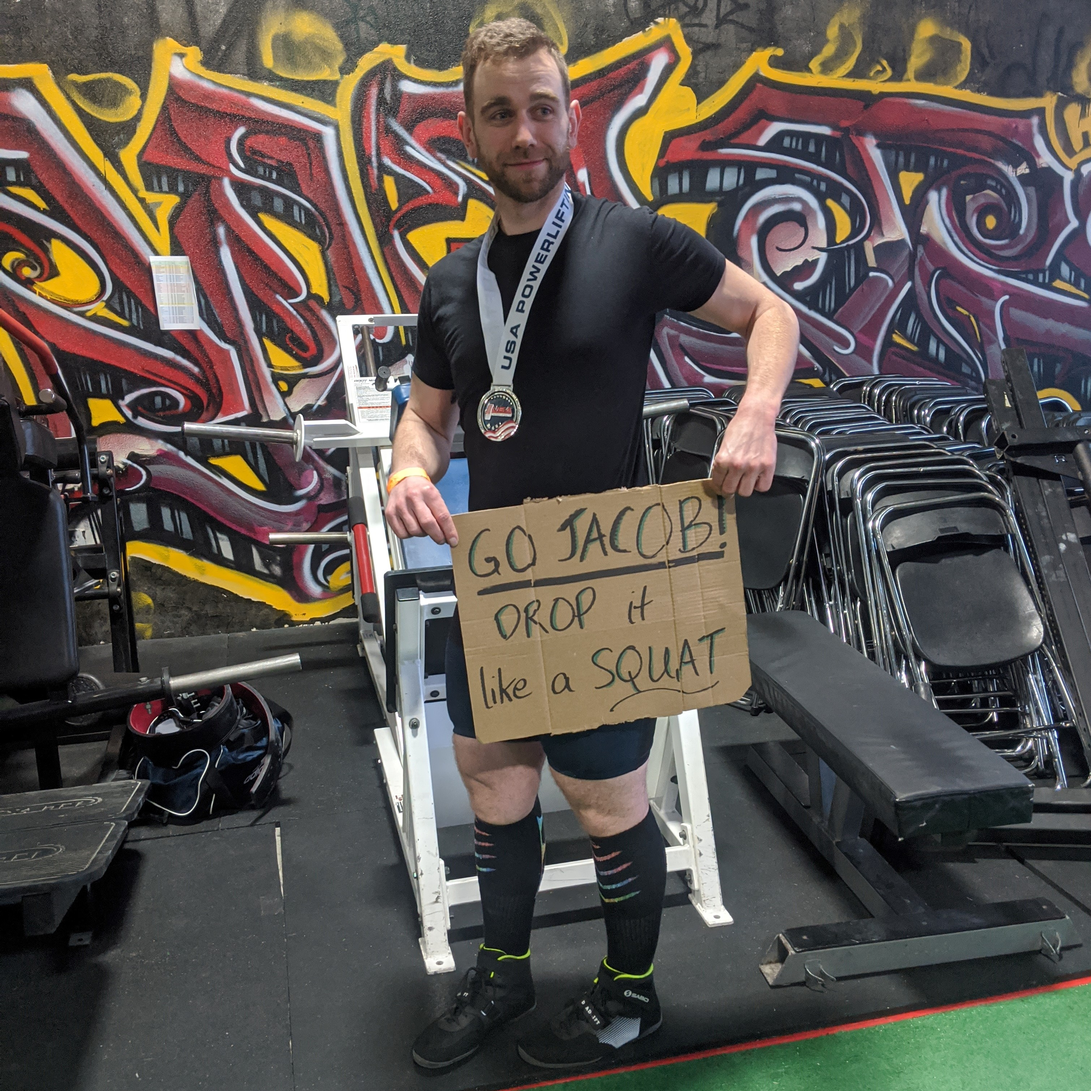
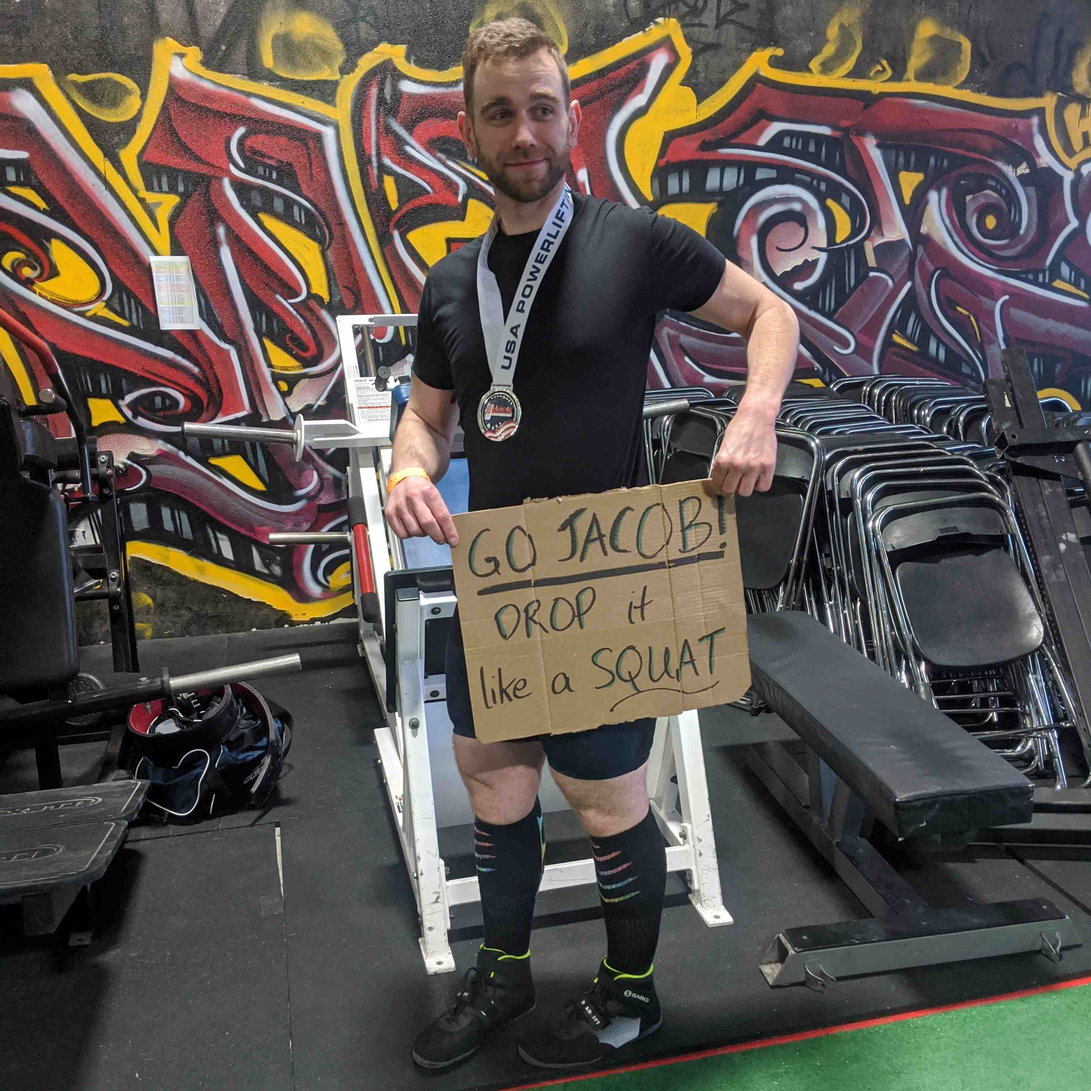
added compressed photos and some css tweaks

diff --git a/public/index.html b/public/index.html
@@ -4,10 +4,11 @@
         <meta charset="UTF-8">
         <meta http-equiv="X-UA-Compatible" content="IE=edge">
         <meta name="viewport" content="width=device-width, initial-scale=1.0">
+        <meta name="description" content="Home of the CasualDevelopment YouTube channel and blog focused on building random websites for fun.">
         <link rel="stylesheet" href="/css/style.css">
         <link rel="shortcut icon" href="/assests/logo.png" type="image/png">
         <script defer src="https://identity.netlify.com/v1/netlify-identity-widget.js"></script>
-        <title></title>
+        <title>CasualDev_</title>
     </head>
     <body>
         <header class="header">
@@ -44,13 +45,15 @@
         <legend>Jacob McCracken</legend>
         <ul class="profile_link-list">
             <li>
-                <a href="https://twitter.com/balorformorian" target="_blank" rel="norefferer">
+                <a class="social-link" href="https://twitter.com/balorformorian" target="_blank" rel="norefferer">
                     <svg xmlns="http://www.w3.org/2000/svg" viewBox="0 0 512 512" class="twitter"><!--! Font Awesome Pro 6.1.2 by @fontawesome - https://fontawesome.com License - https://fontawesome.com/license (Commercial License) Copyright 2022 Fonticons, Inc. --><path d="M459.37 151.716c.325 4.548.325 9.097.325 13.645 0 138.72-105.583 298.558-298.558 298.558-59.452 0-114.68-17.219-161.137-47.106 8.447.974 16.568 1.299 25.34 1.299 49.055 0 94.213-16.568 130.274-44.832-46.132-.975-84.792-31.188-98.112-72.772 6.498.974 12.995 1.624 19.818 1.624 9.421 0 18.843-1.3 27.614-3.573-48.081-9.747-84.143-51.98-84.143-102.985v-1.299c13.969 7.797 30.214 12.67 47.431 13.319-28.264-18.843-46.781-51.005-46.781-87.391 0-19.492 5.197-37.36 14.294-52.954 51.655 63.675 129.3 105.258 216.365 109.807-1.624-7.797-2.599-15.918-2.599-24.04 0-57.828 46.782-104.934 104.934-104.934 30.213 0 57.502 12.67 76.67 33.137 23.715-4.548 46.456-13.32 66.599-25.34-7.798 24.366-24.366 44.833-46.132 57.827 21.117-2.273 41.584-8.122 60.426-16.243-14.292 20.791-32.161 39.308-52.628 54.253z"/></svg>
+                    <span>Twitter</span>
                 </a>
             </li>
             <li>
-                <a href="https://www.youtube.com/channel/UCdlgnwlj8WgDoeFa_p3AW4g" target="_blank" rel="norefferer">
+                <a class="social-link" href="https://www.youtube.com/channel/UCdlgnwlj8WgDoeFa_p3AW4g" target="_blank" rel="norefferer">
                     <svg xmlns="http://www.w3.org/2000/svg" viewBox="0 0 576 512" class="youtube"><!--! Font Awesome Pro 6.1.2 by @fontawesome - https://fontawesome.com License - https://fontawesome.com/license (Commercial License) Copyright 2022 Fonticons, Inc. --><path d="M549.655 124.083c-6.281-23.65-24.787-42.276-48.284-48.597C458.781 64 288 64 288 64S117.22 64 74.629 75.486c-23.497 6.322-42.003 24.947-48.284 48.597-11.412 42.867-11.412 132.305-11.412 132.305s0 89.438 11.412 132.305c6.281 23.65 24.787 41.5 48.284 47.821C117.22 448 288 448 288 448s170.78 0 213.371-11.486c23.497-6.321 42.003-24.171 48.284-47.821 11.412-42.867 11.412-132.305 11.412-132.305s0-89.438-11.412-132.305zm-317.51 213.508V175.185l142.739 81.205-142.739 81.201z"/></svg>
+                    <span>YouTube</span>
                 </a>
             </li>
         </ul>

diff --git a/public/css/style.css b/public/css/style.css
@@ -1,10 +1,19 @@
 @import url(https://fonts.bunny.net/css?family=alatsi:400|alfa-slab-one:400);
+
+
 html,
 body {
   margin: 0 auto;
   font-family: "Alatsi", "Alfa Slab One", sans-serif;
   overflow-x: hidden;
+  font-display: swap;
 }
+
+a {
+  text-decoration: none;
+  color: inherit;
+}
+
 /* header styles */
 .header {
   max-width: 95vw;
@@ -42,6 +51,7 @@ body {
 
 .nav_item {
   padding: 0 2em;
+  font-size: 1.5rem;
 }
 
 .nav_item a {
@@ -63,6 +73,7 @@ body {
 
   .header_logo-wrapper img {
     width: 50%;
+    min-width: 50px;
   }
 
   .nav {
@@ -70,6 +81,10 @@ body {
   }
   .nav_list {
     justify-content: center;
+  }
+
+  .nav_item {
+    min-width: 50px;
   }
 }
 
@@ -99,7 +114,7 @@ body {
   content: "";
   background-color: #252324;
   padding: 3vw;
-  width: 45dvw;
+  width: 52dvw;
   z-index: 2;
   transform: rotate(-1.5deg) translateY(10.5vw) translateX(-2vw);
 }
@@ -213,6 +228,12 @@ body {
   display: flex;
   align-items: center;
   gap: 1em;
+}
+
+.social-link {
+  display: flex;
+  flex-direction: column;
+  align-items: center;
 }
 
 .profile_link-list li a svg {

diff --git a/src/css/style.css b/src/css/style.css
@@ -1,10 +1,19 @@
 @import url(https://fonts.bunny.net/css?family=alatsi:400|alfa-slab-one:400);
+
+
 html,
 body {
   margin: 0 auto;
   font-family: "Alatsi", "Alfa Slab One", sans-serif;
   overflow-x: hidden;
+  font-display: swap;
 }
+
+a {
+  text-decoration: none;
+  color: inherit;
+}
+
 /* header styles */
 .header {
   max-width: 95vw;
@@ -42,6 +51,7 @@ body {
 
 .nav_item {
   padding: 0 2em;
+  font-size: 1.5rem;
 }
 
 .nav_item a {
@@ -63,6 +73,7 @@ body {
 
   .header_logo-wrapper img {
     width: 50%;
+    min-width: 50px;
   }
 
   .nav {
@@ -70,6 +81,10 @@ body {
   }
   .nav_list {
     justify-content: center;
+  }
+
+  .nav_item {
+    min-width: 50px;
   }
 }
 
@@ -99,7 +114,7 @@ body {
   content: "";
   background-color: #252324;
   padding: 3vw;
-  width: 45dvw;
+  width: 52dvw;
   z-index: 2;
   transform: rotate(-1.5deg) translateY(10.5vw) translateX(-2vw);
 }
@@ -213,6 +228,12 @@ body {
   display: flex;
   align-items: center;
   gap: 1em;
+}
+
+.social-link {
+  display: flex;
+  flex-direction: column;
+  align-items: center;
 }
 
 .profile_link-list li a svg {

diff --git a/public/blog/2022-09-27-what-a-day-to-write/index.html b/public/blog/2022-09-27-what-a-day-to-write/index.html
@@ -4,10 +4,11 @@
         <meta charset="UTF-8">
         <meta http-equiv="X-UA-Compatible" content="IE=edge">
         <meta name="viewport" content="width=device-width, initial-scale=1.0">
+        <meta name="description" content="Home of the CasualDevelopment YouTube channel and blog focused on building random websites for fun.">
         <link rel="stylesheet" href="/css/style.css">
         <link rel="shortcut icon" href="/assests/logo.png" type="image/png">
         <script defer src="https://identity.netlify.com/v1/netlify-identity-widget.js"></script>
-        <title>What a day to write</title>
+        <title>CasualDev_</title>
     </head>
     <body>
         <header class="header">

diff --git a/public/blog/index.html b/public/blog/index.html
@@ -4,10 +4,11 @@
         <meta charset="UTF-8">
         <meta http-equiv="X-UA-Compatible" content="IE=edge">
         <meta name="viewport" content="width=device-width, initial-scale=1.0">
+        <meta name="description" content="Home of the CasualDevelopment YouTube channel and blog focused on building random websites for fun.">
         <link rel="stylesheet" href="/css/style.css">
         <link rel="shortcut icon" href="/assests/logo.png" type="image/png">
         <script defer src="https://identity.netlify.com/v1/netlify-identity-widget.js"></script>
-        <title></title>
+        <title>CasualDev_</title>
     </head>
     <body>
         <header class="header">
